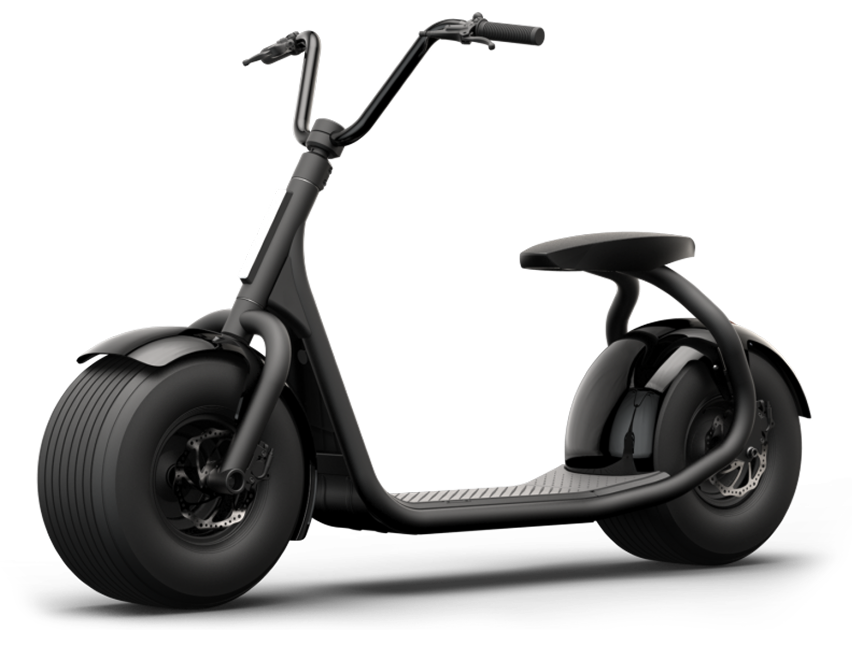
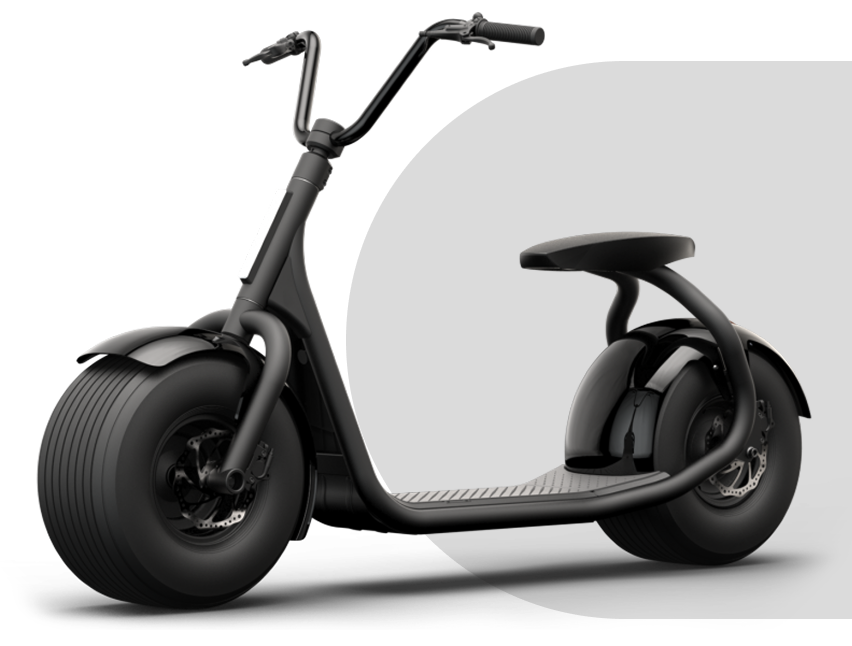
Mini Changes

diff --git a/index.html b/index.html
@@ -47,9 +47,7 @@
 
     <!-- ----------------------Banner Starting---------------------------- -->
     <section id="banner">
-        <div class="banner_image">
-            
-        </div>
+        <div class="banner_image"><img src="images/banner_image.png" alt="Banner Image"></div>
         <div class="container">
             <div class="row">
                 <div class="col-lg-12">
@@ -78,7 +76,7 @@
                         </a>
                     </div>
                 </div>
-                <div class="col-lg-2">
+                <div class="col-lg-3">
                     <div class="spinning_text">
                         <p>Watch our video how it works</p>
                         <div class="spin_round">
@@ -99,8 +97,6 @@
         </div>
     </section>
     <!-- ----------------------Banner Ending---------------------------- -->
-
-
     <!-- ----------------------Navbar Starting---------------------------- -->
     <!-- ----------------------Navbar Ending---------------------------- -->
     <!-- ----------------------Navbar Starting---------------------------- -->

diff --git a/css/style.css b/css/style.css
@@ -89,13 +89,12 @@ nav{
     position: relative;
 }
 .banner_image{
-    position: absolute;
-    width: 855px;
-    height: 646px;
-    top: 0;
-    right: 0;
-    background: url(../images/banner_image.png);
-    background-size: cover;
+  position: absolute;
+  max-width: 885px;
+  min-width: 500px;
+  height: 646px;
+  top: 0;
+  right: 0;
 }
 .banner_text h1{
     font-family: var(--brand_fontFamily);
@@ -139,6 +138,7 @@ nav{
     font-family: var(--brand_fontFamily);
     font-size: 18px;
     font-weight: 500;
+    width: 87px;
 }
 .arrow_n_spin{
     align-items: center;
